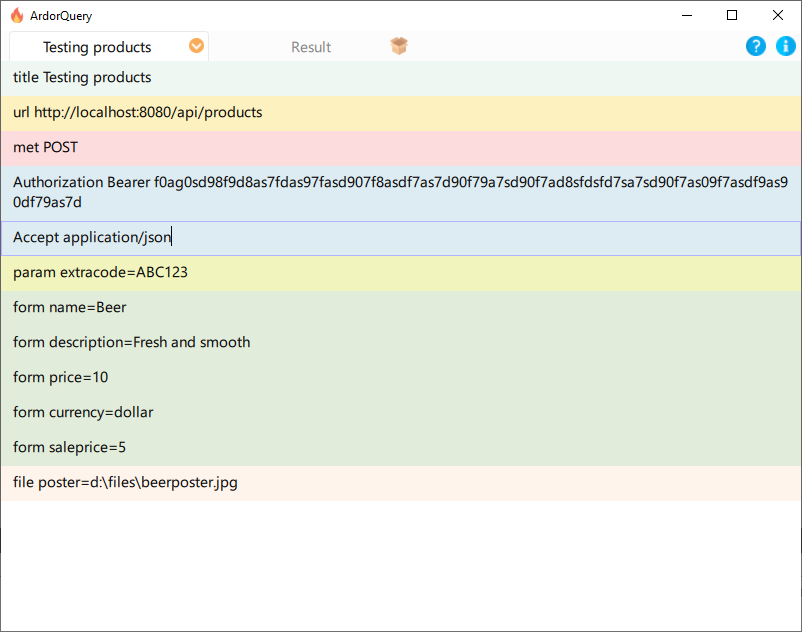
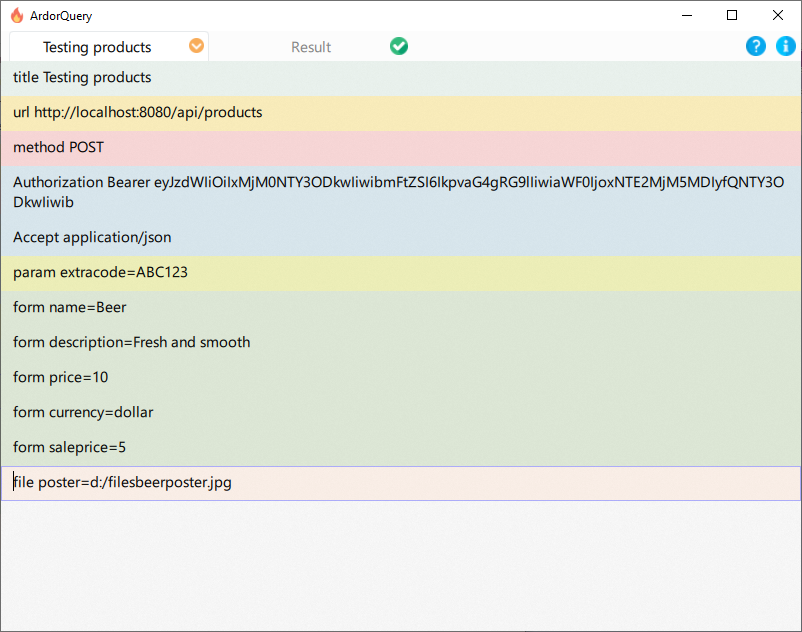
+ Added global variable page to documentation
> Fixed screenshoot and added aliases fields to documentation

diff --git a/docs/commonfields.md b/docs/commonfields.md
@@ -82,6 +82,35 @@ The script can be used to validate results using custom logic. You can read more
   
 Example: `postscript result.hasErrors = response.statusCode != 200;`
 
+## Aliases
+
+An alias combines multiple fields into a single field or makes it easier to write some fields.
+
+#### `bearer <token>`
+Added authorization header with bearer type and value from `token`.
+  
+Example:
+`bearer ABCDEF` -> `Authorization Bearer ABCDEF`
+
+#### `json <content>`
+where `content` it body content. This can be useful if you are making a request to a restful API.
+  
+Example:
+`json {"result": true}`
+->
+`Content-Type application/json`
+`Accept application/json`
+`body {"result": true}`
+
+#### `xmla <content>`
+where `content` it body content. This can be useful if you are making a request to a restful API.
+  
+Example:
+`xmla <xml></xml>`
+->
+`Content-Type application/xml`
+`Accept application/xml`
+`body <xml></xml>`
 
 ## Extra fields
 

diff --git a/docs/globalvariables.md b/docs/globalvariables.md
@@ -1,0 +1,13 @@
+# Global variables
+
+You can define a global variable and use it in your queries. To open the `Global Variables` window, press `Ctrl-F6`/`Command-F6`.
+The format of a global variable is the same as in the `<variable name> <value>` query editor.
+You can press `Ctrl-Enter` to add a new line for create a new global variable.
+At the end of edit session you need to save the global variables by pressing `Ctrl-S`/`Command-S`.
+After this you can use the global variable in your queries like `{{<name of variable>}}`.  
+  
+As example global variable `mytoken 4354534534534534534`
+```
+bearer {{mytoken}}
+```
+header will be replaced on `bearer 4354534534534534534`.
